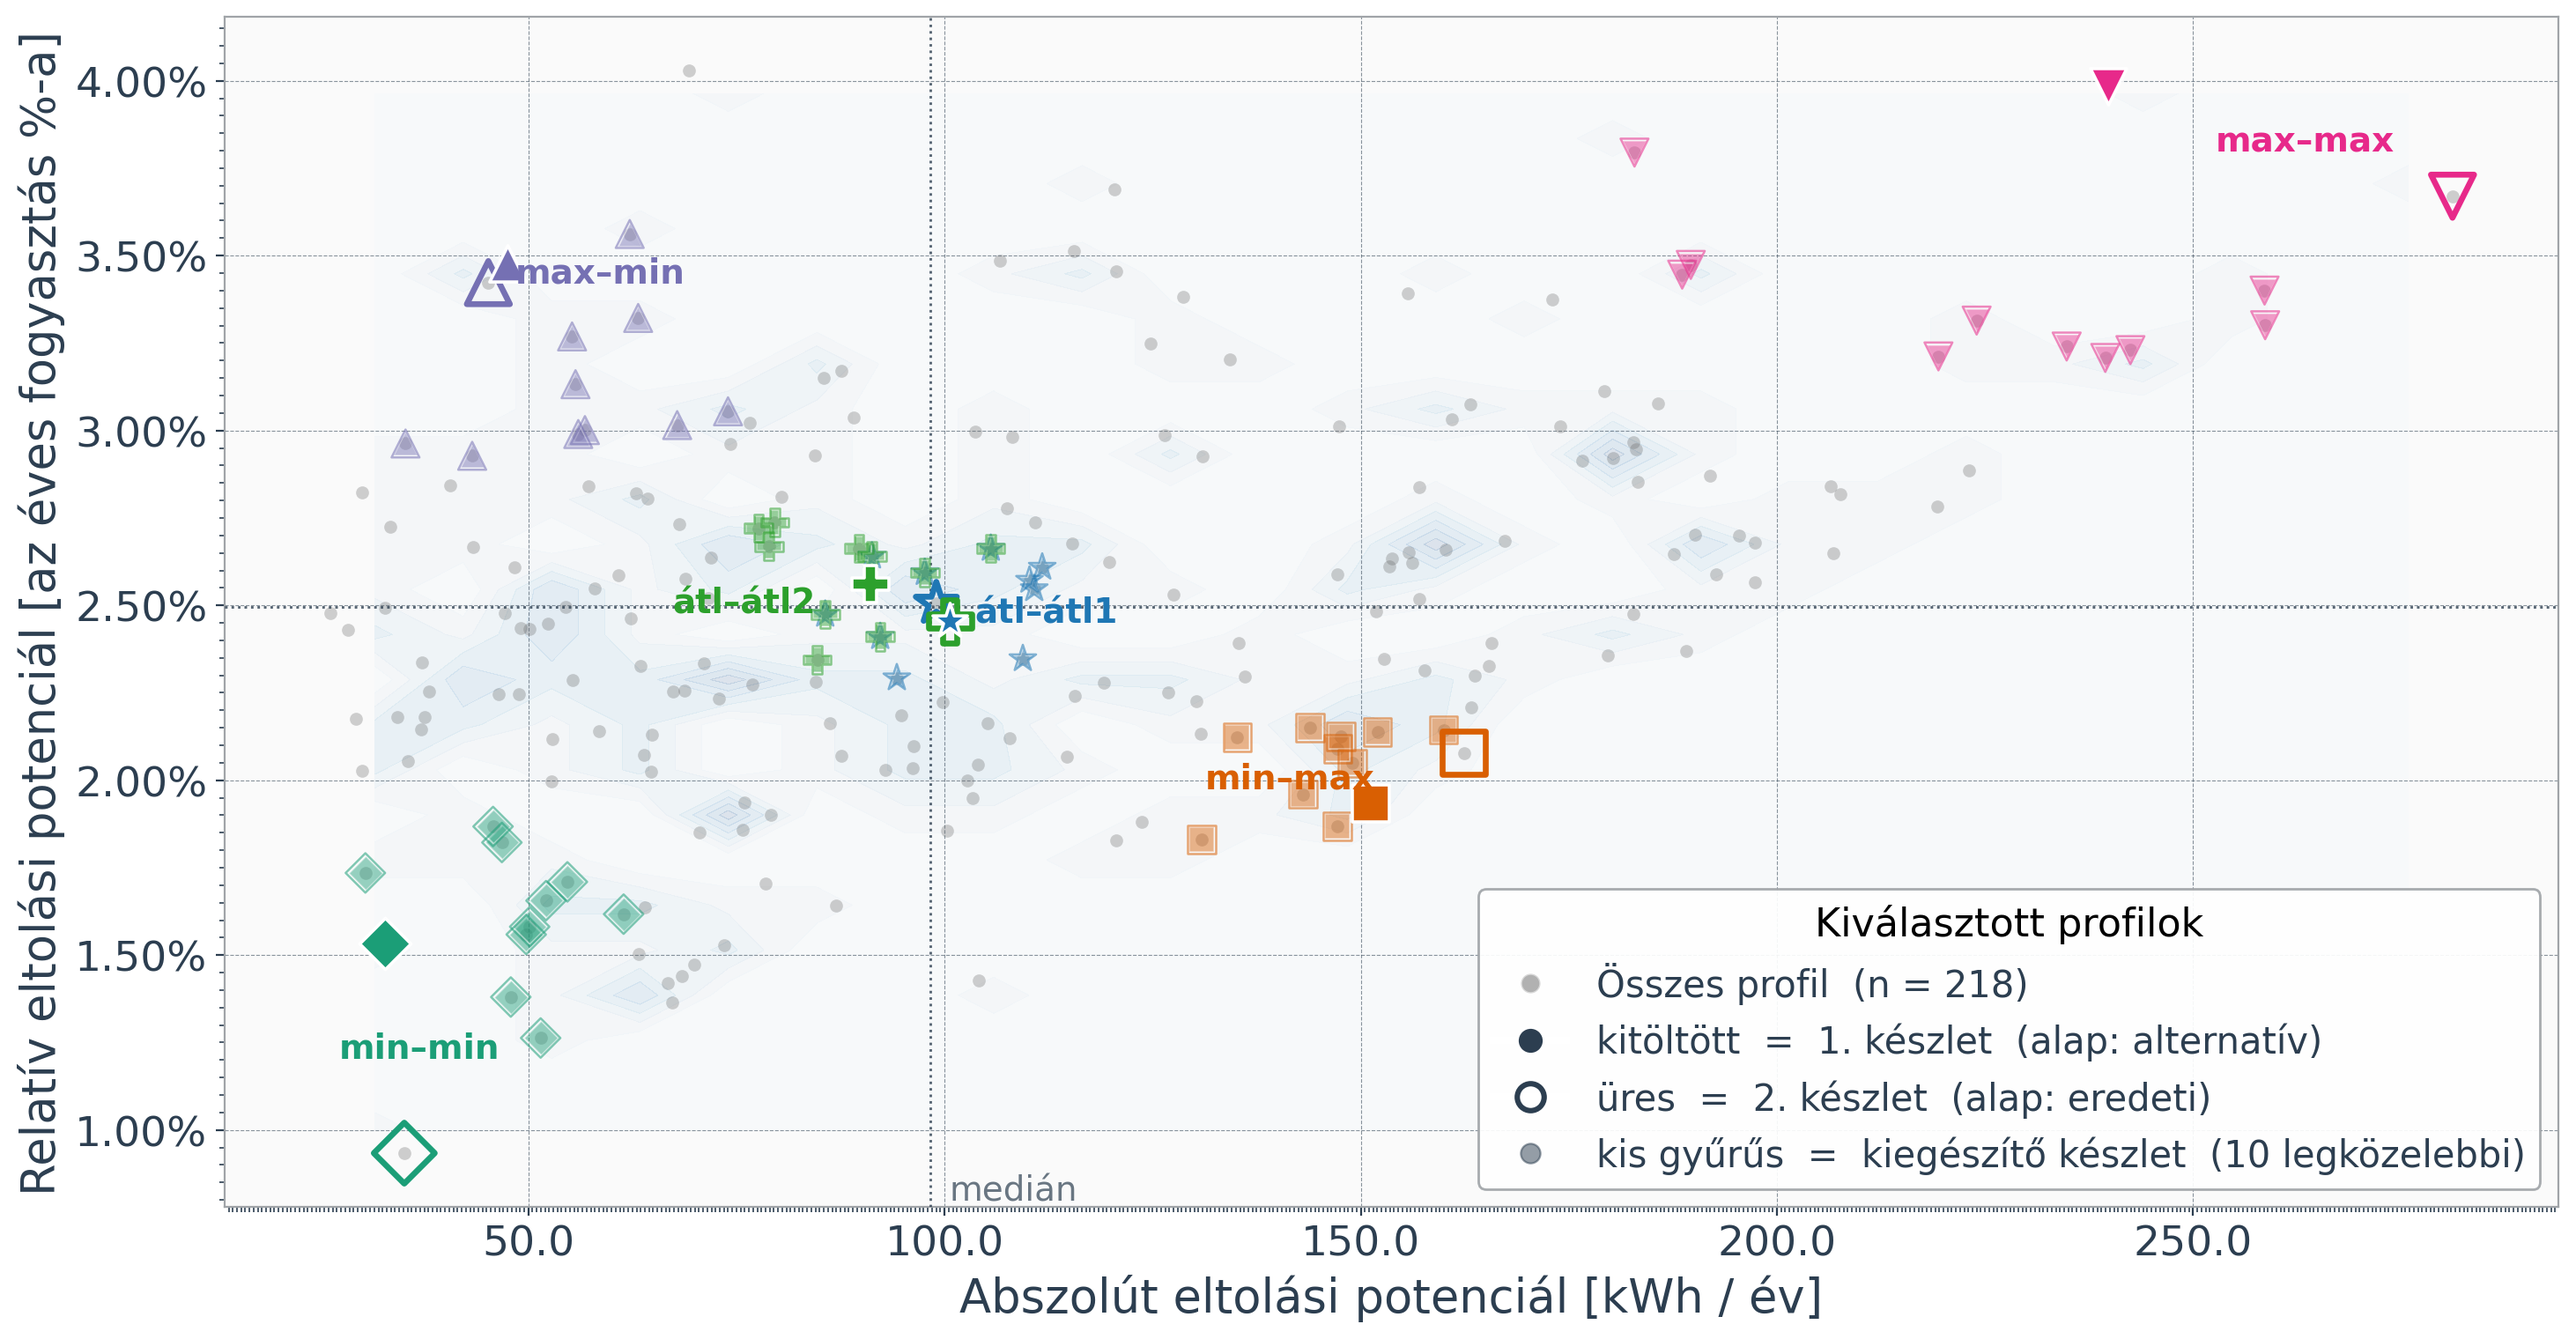
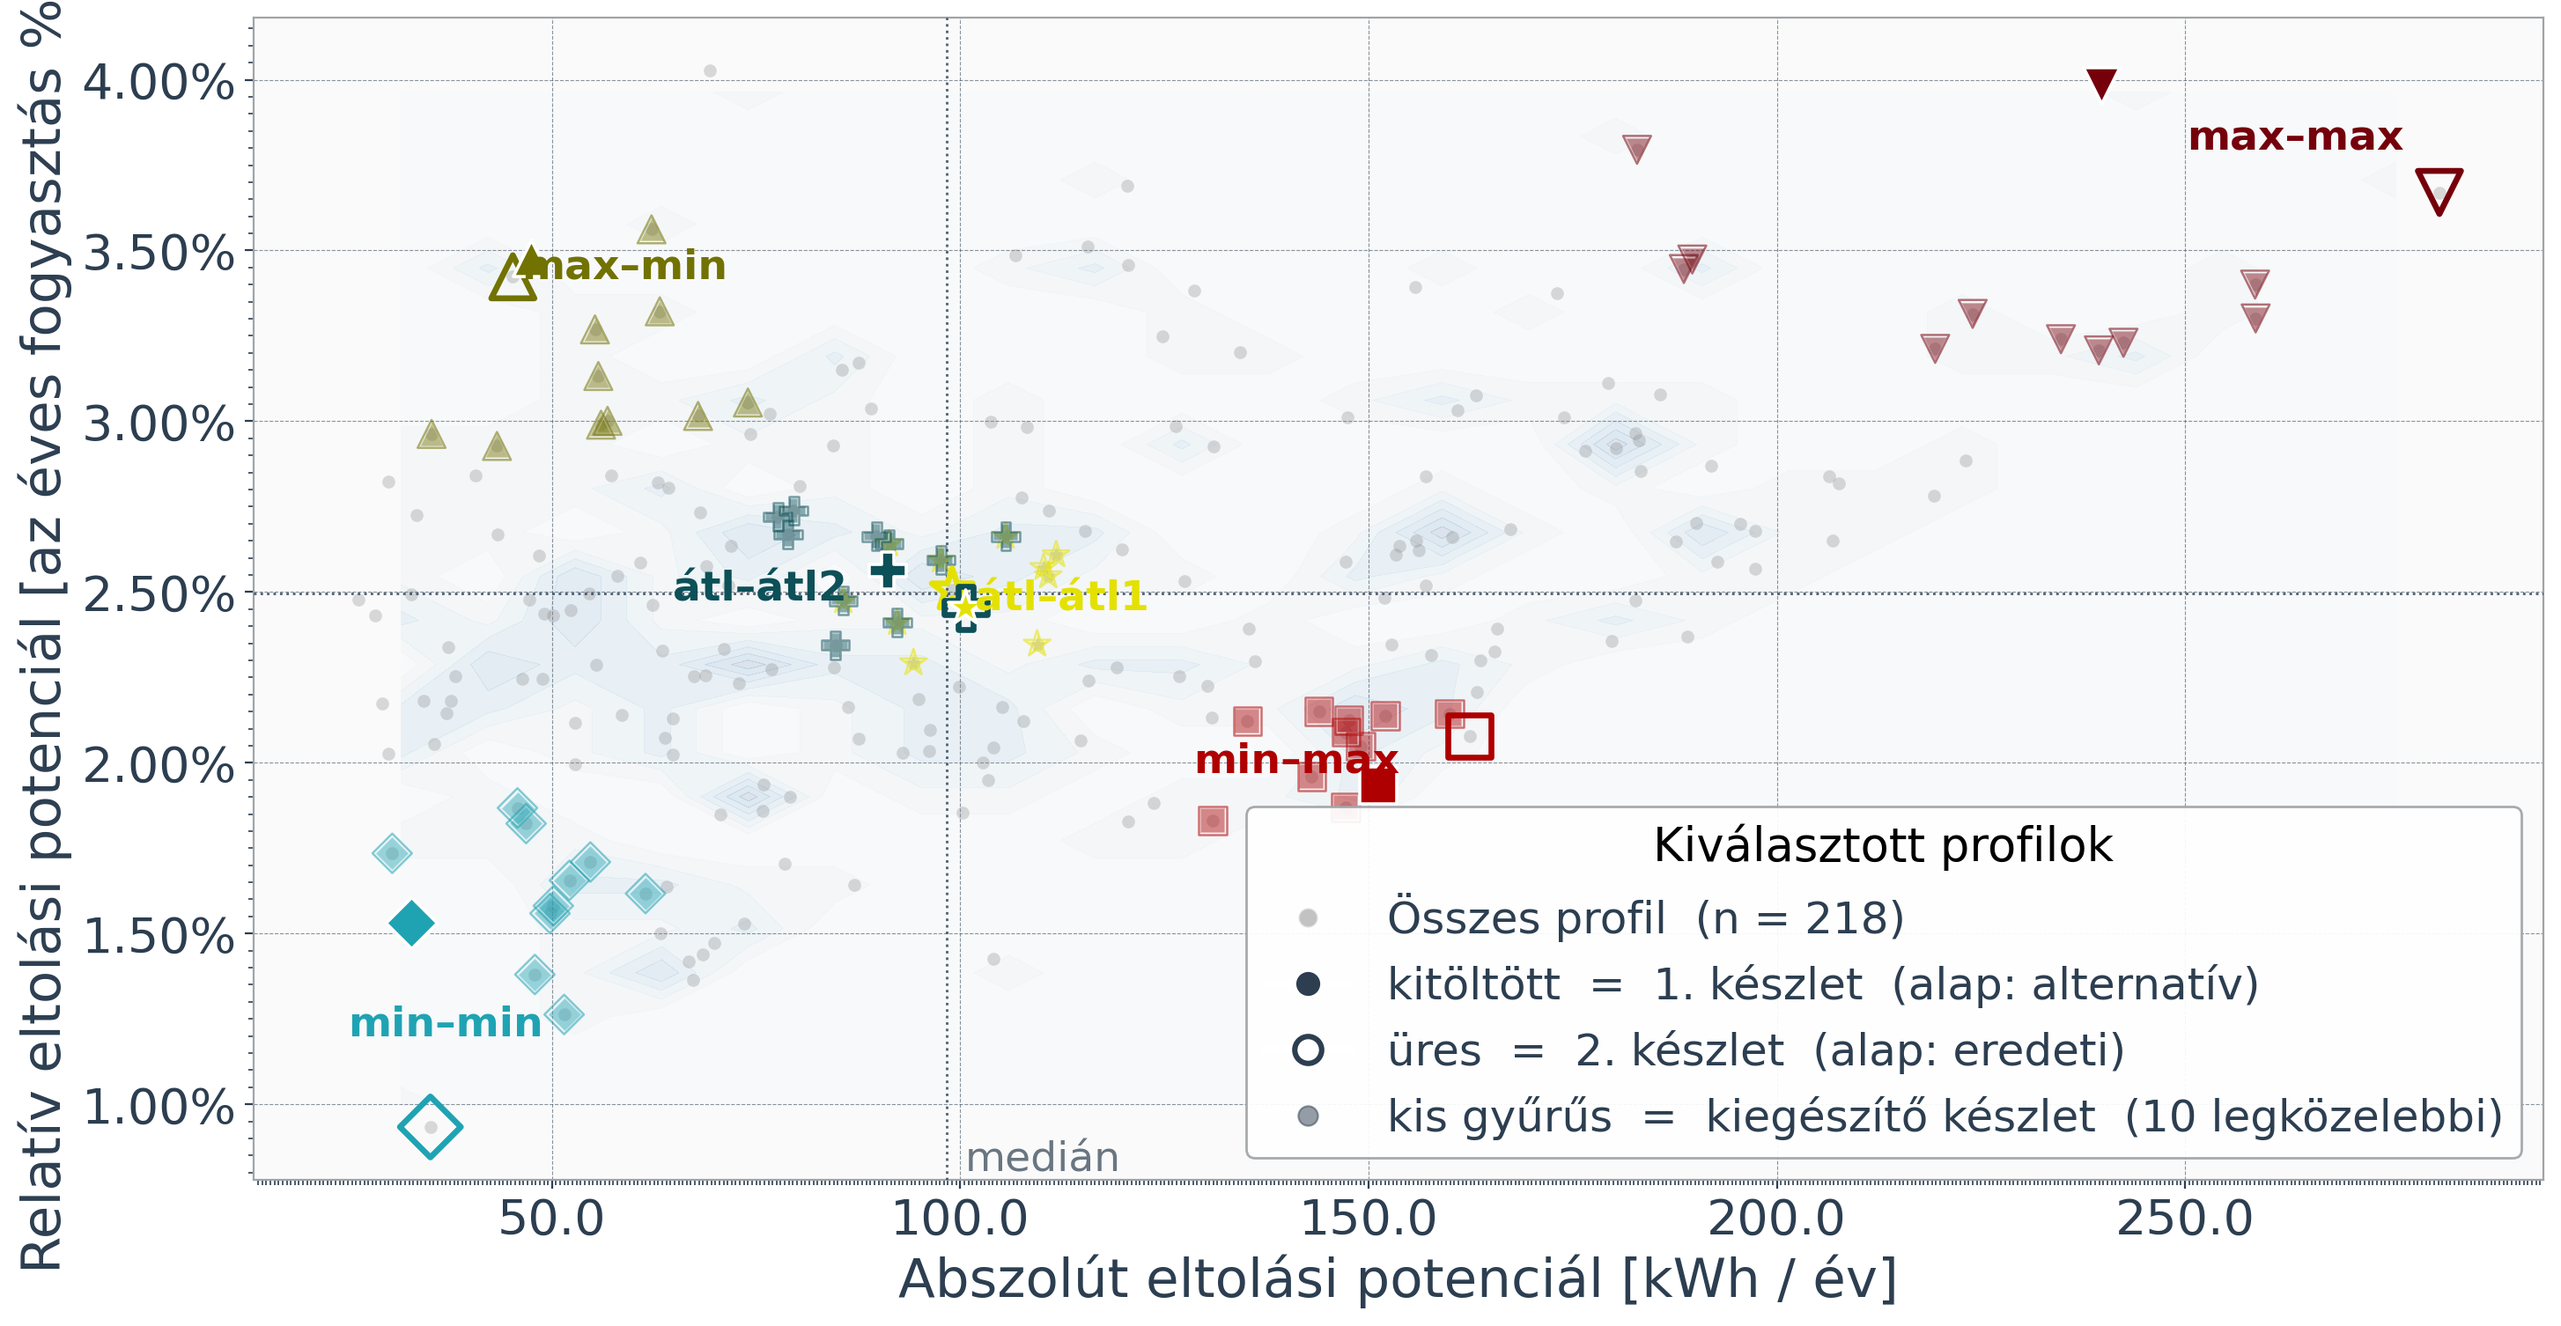
Shift potential dia

diff --git a/vandorgyules_prez.tex b/vandorgyules_prez.tex
@@ -509,25 +509,25 @@ $^1$ \footnotesize Rollo, Antonino, et al.~"Load Shifting and Demand-Side Manage
 \end{frame}
 
 \begin{frame}{Kiindulási fogyasztói profilok}
-\begin{minipage}[t]{0.36\columnwidth}
+\hspace{-1em}\begin{minipage}{0.27\columnwidth}
 \begin{itemize}\setlength{\itemsep}{1.2ex}
-    \item Magyar okosórás (SM) adatsorok, \highlight{teljes éves} felbontás
-    \item Szűrés: $1\,000$–$8\,000$\,kWh/év éves fogyasztás
-    \item \highlight{„Shift potential"}: az átütemezhető fogyasztás mértéke
-    \item Kiválasztás: \highlight{min}, \highlight{max}, \highlight{mean}\\kombináció (relatív + abszolút)
-    \item Összesen \highlight{6 kiindulási profil}
+    \item Magyar, smart metered, éves
+    \item \highlight{„Shift potential"}: az átütemezhető fogyasztás mennyisége
+    \item \highlight{min}, \highlight{max}, \highlight{átl}
+    \item \highlight{6 kiindulási profil}
 \end{itemize}
 \end{minipage}
-\hfill
-\begin{minipage}[t]{0.60\columnwidth}
+\hspace{0.1em}
+\begin{minipage}{0.72\columnwidth}
 \centering
 \includegraphics[width=\columnwidth]{figures/shift_potential_overview.png}
 \end{minipage}
 \end{frame}
 
 \begin{frame}{Egyidejűségi metrikák}
+\hspace{1em}
 
-\hspace{-1em}\begin{minipage}{0.55\columnwidth}
+\begin{minipage}{0.55\columnwidth}
 \begin{center}
 \scriptsize
 \pgfplotstableread[col sep = comma]{data/profile.csv}\datatable
@@ -582,8 +582,9 @@ $^1$ \footnotesize Rollo, Antonino, et al.~"Load Shifting and Demand-Side Manage
 \end{center}
 \end{minipage}
 \hspace{-2.5em}
+%\vspace{-10ex}
 \begin{minipage}[t]{0.5\columnwidth}
-\vspace{0ex}
+\vspace{-10ex}
 {
 \footnotesize
 \begin{itemize}
